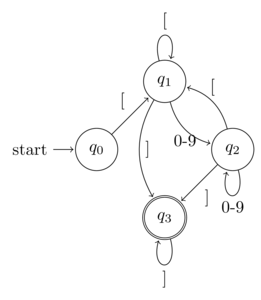
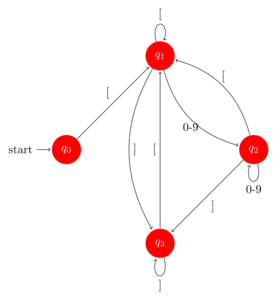
update state machine edge

diff --git a/vimtrick_substitute_1.tex b/vimtrick_substitute_1.tex
@@ -1,0 +1,41 @@
+\documentclass[UTF8]{article}
+\usepackage{pagecolor,lipsum}
+\usepackage{amsmath}
+\usepackage{amsfonts}
+\usepackage{amssymb}
+\usepackage{amsthm}
+\usepackage{centernot}
+\usepackage{tikz}
+\usepackage{xcolor}
+\usepackage{fullpage}
+\usepackage[inline]{asymptote}
+\usepackage{listings}
+\usetikzlibrary{arrows,decorations.pathmorphing,backgrounds,positioning,fit,petri}
+\newtheorem{theorem}{Theorem}
+\newtheorem{defintion}{Definition}
+\newtheorem{collorary}{Collorary}
+\newtheorem{example}{Example}
+\newtheorem{remark}{Remark}
+\newtheorem{note}{Note} 
+% no indentation
+\setlength\parindent{0pt}
+\begin{document}
+
+\begin{lstlisting}[
+mathescape,
+columns=fullflexible,
+basicstyle=\fontfamily{lmvtt}\selectfont,
+]
+Out objective for today is to show you how to use hightlight, selection and substitute
+text     => $\color{red}{[}$nice$\color{red}{]}$
+nice text=> $\color{red}{[}$nice nice$\color{red}{]}$
+
+1. select text
+2. press <Shift-v>
+3. type  s/\%V\w\+/[\0]/gc  Enter
+    what is \%V here? \%V matches inside the Visual area. If \%V is not used, the whole line is used to match
+    \w\+ matches one or more [0-9] or [a-z] or [A-Z] or underscore, e.g. it match my_text123 
+    \0 is the whole match
+\end{lstlisting} 
+
+\end{document}

diff --git a/writing.tex b/writing.tex
@@ -108,10 +108,10 @@ $\textbf{there is/are}$
 \item[] There should be traffic lights in the crossroads
 \item[] There should not be as many fans near the singer
 \item $\color{red}{\textbf{When there is no matches return a empty list}}$
-<<<<<<< HEAD
 \item $\color{red}{\textbf{When there is no matches, we return a empty list}}$
 \item $\color{blue}{\textbf{When there is no matches, an empty is returned}}$
 \end{itemize}
+
 \begin{itemize}
 \item despite 
 \item[] Haskell is still not a popular programming language despite the language has developed since 1990s
@@ -130,11 +130,24 @@ $\textbf{there is/are}$
 \item[] select text between two dollar signs but excluding the two dollar signs.
 \end{itemize}
 
-=======
+\begin{itemize}
+\item Our objective for today is to show you how to select some text or hightlight it, then substitute with pattern
+\begin{lstlisting}[
+mathescape,
+columns=fullflexible,
+basicstyle=\fontfamily{lmvtt}\selectfont,
+]
+
+$text     => $\color{red}{<pre>}$nice$\color{red}{</pre>}$$
+$nice text=> $\color{red}{<pre>}$nice nice$\color{red}{</pre>}$$
+\end{lstlisting} 
 \end{itemize}
 
+\& \% \$ \# \_ \{ \}
+\textasciitilde
+\textasciicircum
+\textbackslash 
 
 
->>>>>>> 0a4c7280fb3137ee41b70ae5da8fc8598d63c41d
 \end{document} 
 

diff --git a/StateMachine2.tex b/StateMachine2.tex
@@ -2,7 +2,8 @@
 \usepackage{tikz}
 \usetikzlibrary{automata,positioning}
 \begin{document}
-\begin{tikzpicture}[shorten >=1pt,node distance=2cm,on grid,auto] 
+\begin{tikzpicture}[shorten >=1pt,node distance=4cm,on grid,auto] 
+    \tikzstyle{every state}=[fill=red,draw=none,text=white]
    \node[state,initial] (q_0)   {$q_0$}; 
    \node[state] (q_1) [above right=of q_0] {$q_1$}; 
    \node[state] (q_2) [below right=of q_1] {$q_2$}; 
@@ -15,6 +16,7 @@
           edge [loop below] node {0-9} ()
     (q_2) edge [bend right] node [above] {[} (q_1)
     (q_1) edge [bend right] node {]} (q_3)
-    (q_3) edge [loop below] node {]} ();
+    (q_3) edge [loop below] node {]} ()
+    (q_3) edge  node {[} (q_1);
 \end{tikzpicture}
 \end{document}  

diff --git a/trygr1.tex b/trygr1.tex
@@ -1,0 +1,30 @@
+\documentclass[UTF8]{article}
+\usepackage{pagecolor,lipsum}
+\usepackage{amsmath}
+\usepackage{amsfonts}
+\usepackage{amssymb}
+\usepackage{amsthm}
+\usepackage{centernot}
+\usepackage{tikz}
+\usepackage{xcolor}
+\usepackage{fullpage}
+\usepackage[inline]{asymptote}
+\usepackage{listings}
+\usetikzlibrary{arrows,decorations.pathmorphing,backgrounds,positioning,fit,petri}
+\newtheorem{theorem}{Theorem}
+\newtheorem{defintion}{Definition}
+\newtheorem{collorary}{Collorary}
+\newtheorem{example}{Example}
+\newtheorem{remark}{Remark}
+\newtheorem{note}{Note} 
+% no indentation
+\setlength\parindent{0pt}
+
+\begin{document}
+Hello World
+
+\begin{tikzpicture}
+  \draw (0,0) -- (1,1);
+\end{tikzpicture}
+
+\end{document}

diff --git a/trygraphcolor.tex b/trygraphcolor.tex
@@ -1,0 +1,19 @@
+% Author : Alain Matthes
+% Encoding : UTF8
+% Engine : PDFLaTeX 
+\documentclass[]{scrartcl} 
+\usepackage[utf8]{inputenc} 
+\usepackage[upright]{fourier}
+% you can change the line above 
+\usepackage{tkz-graph} 
+\thispagestyle{empty} 
+\begin{document}
+\begin{tikzpicture}[scale=1.75]
+  \GraphInit[vstyle=Art]
+  \Vertex{A}
+  \Vertex[x=4,y=0]{B}
+  \Vertex[x=1,y=2]{C}
+  \Edge[style={bend left}](B)(A)
+  \Edges(A,B,C,A)
+\end{tikzpicture}
+\end{document}

diff --git a/hello3.tex b/hello3.tex
@@ -71,7 +71,7 @@
 \mathbf 
 \textbf
 \textbf
-\mathbf
+\mathbf   
 
 \mQuick Sort algorithm average runtime is $\mathcal{O}(n\log{}n)$
 \begin{enumerate}
